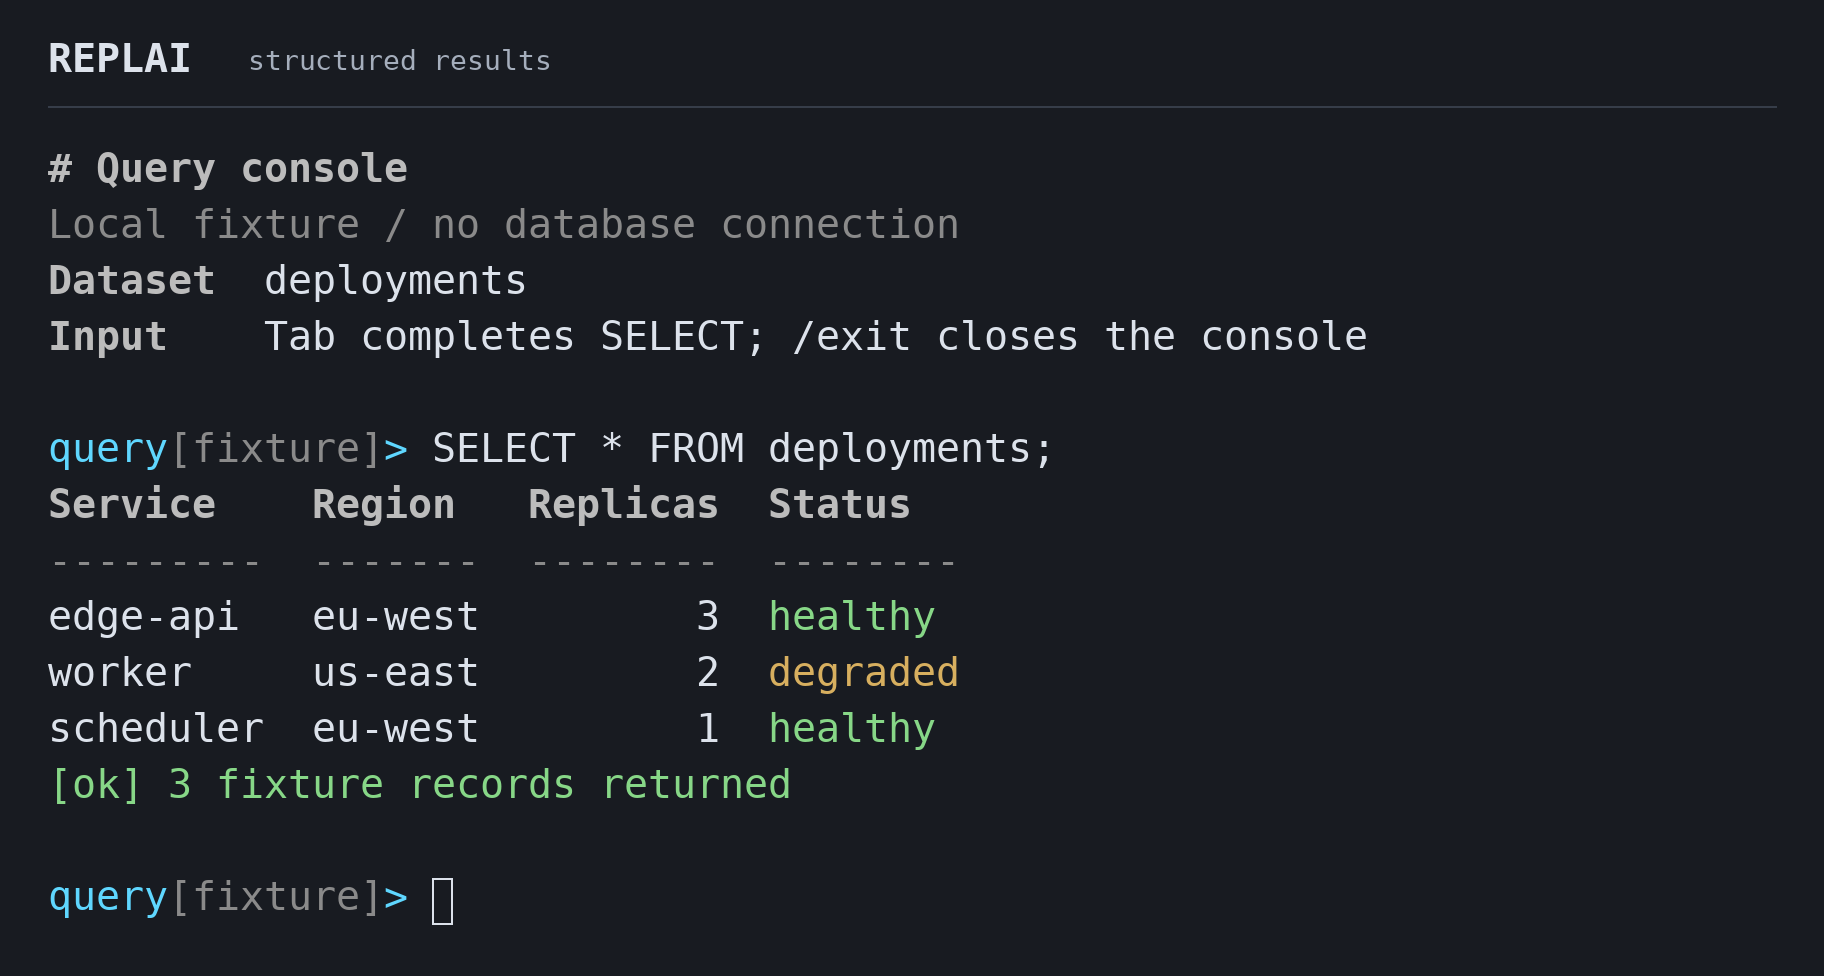
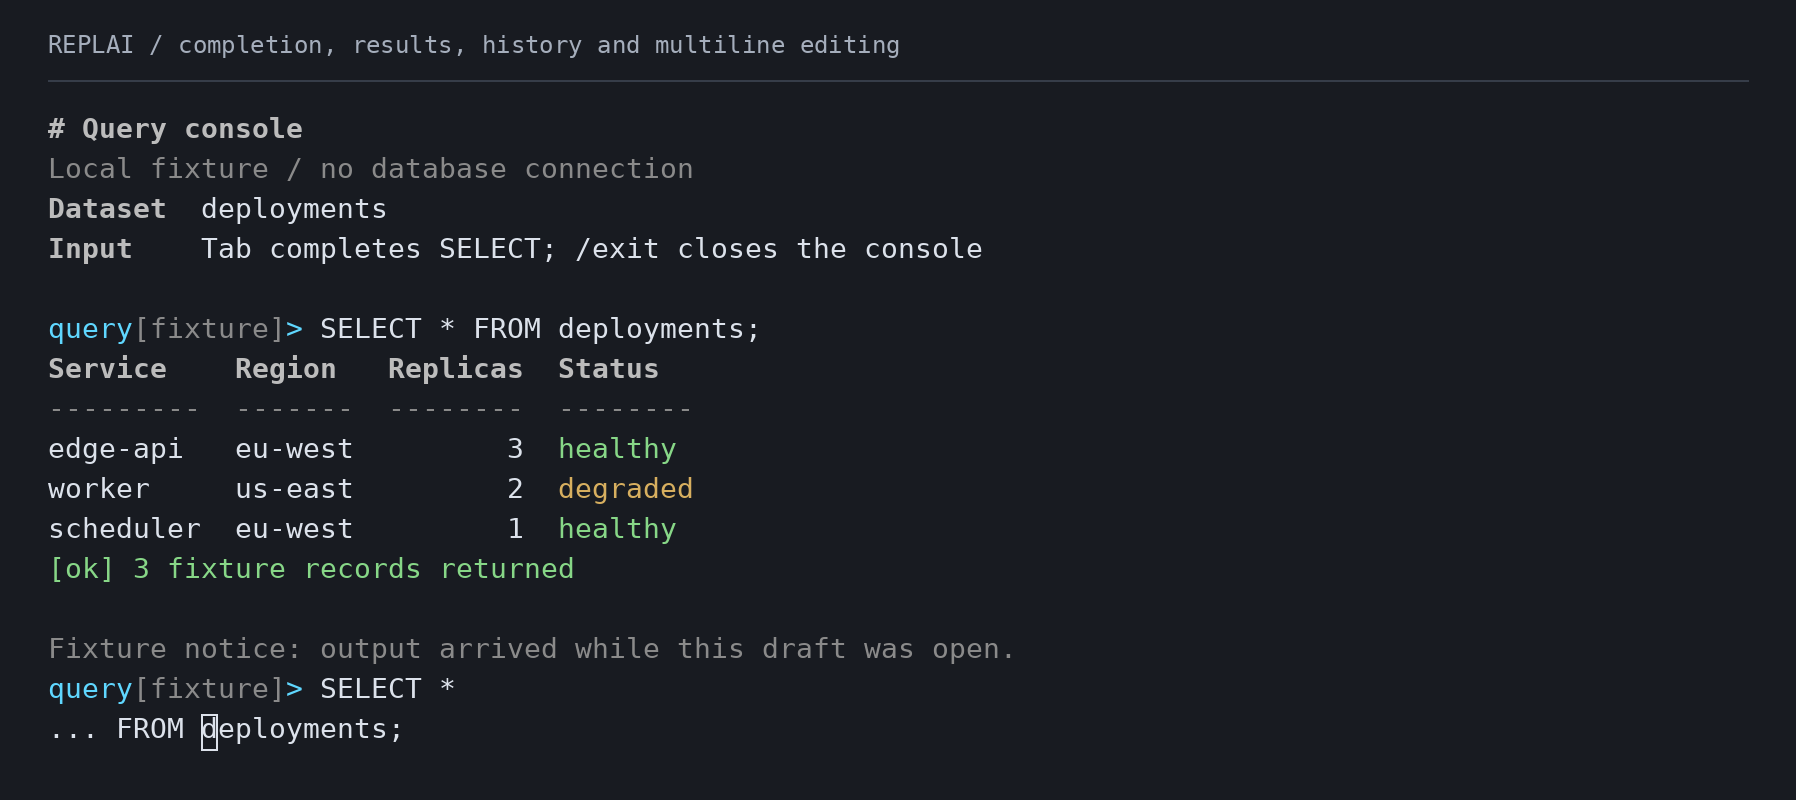
docs: capture denser terminal workflows and layout comparisons

diff --git a/tools/docs/capture_terminal.py b/tools/docs/capture_terminal.py
@@ -1,131 +1,141 @@
 #!/usr/bin/env python3
-"""Rasterize real query-example PTY screens using Pillow 11.3.0 and pyte 0.8.2.
-Optional documentation tooling; no generated application text or library dependency.
+"""Capture real query-host PTYs: Pillow 11.3.0, pyte 0.8.2, DejaVu Sans Mono.
+Optional documentation tooling; all terminal contents come from the executable.
 """
-import os, pty, subprocess, termios, fcntl, struct, select, time
+import copy
+import fcntl
+import os
 from pathlib import Path
+import pty
+import select
+import struct
+import subprocess
+import termios
+import time
+
 import pyte
 from PIL import Image, ImageDraw, ImageFont
 
-root = Path(__file__).resolve().parents[2]
-master, slave = pty.openpty()
-fcntl.ioctl(slave, termios.TIOCSWINSZ, struct.pack("HHHH", 32, 72, 0, 0))
-before = termios.tcgetattr(slave)
-env = {**os.environ, "TERM": "xterm-256color"}
-env.pop("NO_COLOR", None)
-p = subprocess.Popen([str(root / "target/debug/examples/query"), "--notice"],
-    stdin=slave, stdout=slave, stderr=slave, env=env, cwd=root)
-screen = pyte.Screen(72, 32)
-stream = pyte.ByteStream(screen)
-raw = bytearray()
+ROOT = Path(__file__).resolve().parents[2]
 
 
-def drain(seconds):
-    until = time.monotonic() + seconds
-    while time.monotonic() < until:
-        if select.select([master], [], [], max(0, until - time.monotonic()))[0]:
-            data = os.read(master, 65536)
-            raw.extend(data)
-            stream.feed(data)
-
-
-def send(data, seconds=0.15):
-    assert os.write(master, data) == len(data)
-    drain(seconds)
-
-
-def capture(filename, title, show_cursor=True):
-    rows = list(screen.display)
-    last = max(i for i, row in enumerate(rows) if row.strip())
-    rows = rows[:last + 1]
-    fontpath = "/usr/share/fonts/truetype/dejavu/DejaVuSansMono.ttf"
-    boldpath = fontpath.replace(".ttf", "-Bold.ttf")
-    # Render glyphs directly at 2x density; never enlarge an existing bitmap.
-    scale = 2
-    font = ImageFont.truetype(fontpath, 20 * scale)
-    bold = ImageFont.truetype(boldpath, 20 * scale)
-    caption = ImageFont.truetype(fontpath, 14 * scale)
-    cw = 12 * scale
-    ch = 28 * scale
-    pad = 24 * scale
-    top = 72 * scale
-    im = Image.new("RGB", (72 * cw + 2 * pad, top + len(rows) * ch + pad), (24, 27, 33))
-    d = ImageDraw.Draw(im)
-    d.text((pad, 17 * scale), "REPLAI", font=bold, fill="#dce2eb")
-    d.text(
-        (pad + 100 * scale, 22 * scale),
-        title,
-        font=caption,
-        fill="#a5aebc",
-    )
-    d.line((pad, 53 * scale, im.width - pad, 53 * scale), fill="#363d49", width=scale)
-    colors = {
-        "default": "#dce2eb",
-        "black": "#17191e",
-        "red": "#e58b8b",
-        "green": "#99bf95",
-        "brown": "#dfbd80",
-        "blue": "#90b2df",
-        "magenta": "#c5a2d7",
-        "cyan": "#92c7ce",
-        "white": "#e4e8ef",
-        "brightblack": "#8893a4",
-    }
-    for y, row in enumerate(rows):
-        for x in range(72):
-            cell = screen.buffer[y][x]
-            if cell.data.strip():
-                color = colors.get(
-                    cell.fg, "#" + cell.fg if len(cell.fg) == 6 else "#dce2eb"
-                )
-                d.text(
-                    (pad + x * cw, top + y * ch),
-                    cell.data,
-                    font=bold if cell.bold else font,
-                    fill=color,
-                )
-    x, y = screen.cursor.x, screen.cursor.y
-    if show_cursor and y < len(rows):
-        d.rectangle(
-            (
-                pad + x * cw,
-                top + y * ch + 3 * scale,
-                pad + (x + 1) * cw - 2 * scale,
-                top + (y + 1) * ch - 2 * scale,
-            ),
-            outline="#dce2eb",
-            width=scale,
+class Session:
+    def __init__(self, columns, *, plain=False, notice=False):
+        self.master, self.slave = pty.openpty()
+        fcntl.ioctl(self.slave, termios.TIOCSWINSZ, struct.pack("HHHH", 48, columns, 0, 0))
+        self.before = termios.tcgetattr(self.slave)
+        env = {**os.environ, "TERM": "xterm-256color"}
+        env.pop("NO_COLOR", None)
+        if plain:
+            env["NO_COLOR"] = "1"
+        self.process = subprocess.Popen(
+            [str(ROOT / "target/debug/examples/query"), *(["--notice"] if notice else [])],
+            stdin=self.slave, stdout=self.slave, stderr=self.slave, env=env, cwd=ROOT,
         )
-    im.save(root / "assets" / filename, optimize=True)
-    print("\n".join(rows))
-    print(im.size)
+        self.screen = pyte.Screen(columns, 48)
+        self.stream = pyte.ByteStream(self.screen)
+        self.raw = bytearray()
 
-try:
-    drain(0.2)
-    send(b"SEL\t")
-    assert "SELECT * FROM deployments;" in "\n".join(screen.display)
-    send(b"\r")
-    assert "worker" in "\n".join(screen.display)
-    capture("terminal-results.png", "structured results")
-    send(b"\x1b[200~SELECT *\nFROM deployments;\x1b[201~")
-    # Recall history, then return to the exact unfinished multiline draft.
-    send(b"\x1b[A\x1b[B")
-    send(b"\x1b[D" * 12 + b"\x0c")
-    cursor = (screen.cursor.x, screen.cursor.y)
-    drain(2.1)
-    visible = "\n".join(screen.display)
-    assert "Fixture notice:" in visible and "FROM deployments;" in visible
-    # External output adds one row; the same input column must survive.
-    assert screen.cursor.x == cursor[0]
-    capture("terminal-editing.png", "multiline editing + host output")
-    send(b"\x03")
-    send(b"\x04")
-    assert p.wait(timeout=5) == 0
-    assert termios.tcgetattr(slave) == before
-    assert raw.rfind(b"\x1b[?2004l") > raw.rfind(b"\x1b[?2004h")
-finally:
-    if p.poll() is None:
-        p.terminate()
-        p.wait(timeout=5)
-    os.close(master)
-    os.close(slave)
+    def drain(self, seconds=0.2):
+        until = time.monotonic() + seconds
+        while time.monotonic() < until:
+            if select.select([self.master], [], [], max(0, until - time.monotonic()))[0]:
+                data = os.read(self.master, 65536)
+                self.raw.extend(data)
+                self.stream.feed(data)
+
+    def send(self, data):
+        assert os.write(self.master, data) == len(data)
+        self.drain()
+
+    def text(self):
+        return "\n".join(row.rstrip() for row in self.screen.display).rstrip()
+
+    def close(self):
+        try:
+            if self.process.poll() is None:
+                self.send(b"\x03")
+                self.send(b"\x04")
+            assert self.process.wait(timeout=5) == 0
+            assert termios.tcgetattr(self.slave) == self.before
+            assert self.raw.rfind(b"\x1b[?2004l") > self.raw.rfind(b"\x1b[?2004h")
+        finally:
+            if self.process.poll() is None:
+                self.process.terminate()
+                self.process.wait(timeout=5)
+            os.close(self.master)
+            os.close(self.slave)
+
+
+def screen_capture(columns, *, plain=False, editing=False):
+    session = Session(columns, plain=plain, notice=editing)
+    try:
+        session.drain()
+        if not editing:
+            session.send(b"\x0c")  # Actual editor redraw clears introductory output.
+        session.send(b"SEL\t")
+        assert "SELECT*FROMdeployments;" in "".join(session.text().split())
+        session.send(b"\r")
+        assert "scheduler" in session.text() and "degraded" in session.text()
+        if editing:
+            session.send(b"\x1b[200~SELECT *\nFROM deployments;\x1b[201~")
+            # History return and a non-end cursor, preserved through host output.
+            session.send(b"\x1b[A\x1b[B")
+            session.send(b"\x1b[D" * 12)
+            cursor = session.screen.cursor.x
+            session.drain(2.1)
+            assert "Fixture notice:" in session.text()
+            assert "... FROM deployments;" in session.text()
+            assert session.screen.cursor.x == cursor
+        if plain:
+            assert all(cell.fg == "default" and not cell.bold
+                       for row in session.screen.buffer.values() for cell in row.values())
+        print(f"{columns} columns / NO_COLOR={plain}\n{session.text()}\n")
+        return copy.deepcopy(session.screen)
+    finally:
+        session.close()
+
+
+def render(filename, panels):
+    # Direct glyph rasterization at 2x. At README width this is approximately 14px.
+    fontpath = "/usr/share/fonts/truetype/dejavu/DejaVuSansMono.ttf"
+    font = ImageFont.truetype(fontpath, 28)
+    bold = ImageFont.truetype(fontpath.replace(".ttf", "-Bold.ttf"), 28)
+    label = ImageFont.truetype(fontpath, 24)
+    cw, ch, pad, gap, top = 17, 40, 48, 40, 112
+    heights = [max(i for i, row in enumerate(screen.display) if row.strip()) + 1
+               for _, screen in panels]
+    width = sum(screen.columns * cw for _, screen in panels) + 2 * pad + gap * (len(panels) - 1)
+    canvas = Image.new("RGB", (width, top + max(heights) * ch + pad), "#181b21")
+    draw = ImageDraw.Draw(canvas)
+    colors = {"default": "#dce2eb", "black": "#17191e", "red": "#e58b8b",
+              "green": "#99bf95", "brown": "#dfbd80", "blue": "#90b2df",
+              "magenta": "#c5a2d7", "cyan": "#92c7ce", "white": "#e4e8ef",
+              "brightblack": "#8893a4"}
+    left = pad
+    for (title, screen), height in zip(panels, heights):
+        draw.text((left, 30), title, font=label, fill="#a5aebc")
+        draw.line((left, 80, left + screen.columns * cw, 80), fill="#363d49", width=2)
+        for y in range(height):
+            for x in range(screen.columns):
+                cell = screen.buffer[y][x]
+                if cell.data.strip():
+                    color = colors.get(cell.fg, "#" + cell.fg if len(cell.fg) == 6 else "#dce2eb")
+                    draw.text((left + x * cw, top + y * ch), cell.data,
+                              font=bold if cell.bold else font, fill=color)
+        x, y = screen.cursor.x, screen.cursor.y
+        if y < height:
+            draw.rectangle((left + x * cw, top + y * ch + 2,
+                            left + (x + 1) * cw - 1, top + (y + 1) * ch - 2),
+                           outline="#dce2eb", width=2)
+        left += screen.columns * cw + gap
+    canvas.save(ROOT / "assets" / filename, optimize=True)
+    print(filename, canvas.size)
+
+
+if __name__ == "__main__":
+    render("terminal-results.png", [("REPLAI / completion, results, history and multiline editing",
+                                     screen_capture(100, editing=True))])
+    render("terminal-layouts.png", [("42 columns / styled", screen_capture(42)),
+                                     ("42 columns / NO_COLOR", screen_capture(42, plain=True)),
+                                     ("20 cols / stacked", screen_capture(20, plain=True))])

diff --git a/docs/development.md b/docs/development.md
@@ -146,18 +146,25 @@ claiming a Windows terminal backend. Hosted latency is characterization only.
 
 ## README terminal preview
 
-The README uses two real [query-host](../examples/query.rs) screens:
-[structured results](../assets/terminal-results.png) and
-[multiline editing with host output](../assets/terminal-editing.png).
+The README uses real [query-host](../examples/query.rs) sessions:
+[a complete interaction](../assets/terminal-results.png) and
+[styled/plain/narrow layouts](../assets/terminal-layouts.png).
 The example has a fixed query and an in-memory fixture; it connects to no database.
 All terminal contents come from the executable, not authored image text.
 
-The optional [capture script](../tools/docs/capture_terminal.py) drives a 72-column
-Linux PTY with pyte 0.8.2 and Pillow 11.3.0. It exercises completion, submission,
-history return, multiline paste, cursor movement, Ctrl-L and a host notice. It
-checks clean exit, exact termios restoration and paste-mode cleanup. The images
-are rasterized directly at 2× density with DejaVu Sans Mono into 1824-pixel-wide
-PNGs. The dark background and title strip belong to the capture, not REPLAI output.
+The optional [capture script](../tools/docs/capture_terminal.py) drives Linux PTYs
+with pyte 0.8.2 and Pillow 11.3.0. The 100-column session exercises completion,
+submission, history return, multiline paste, a non-end cursor and a host notice.
+The second image places three independently captured screens side by side:
+42 columns styled, 42 columns with NO_COLOR, and 20 columns with NO_COLOR where
+the table becomes stacked records. Ctrl-L clears introductory output in these
+comparison sessions. The capture checks clean exit, exact termios restoration,
+paste cleanup and the absence of styling in plain profiles.
+
+Glyphs are rasterized directly at 2× density with DejaVu Sans Mono. The 28-pixel
+raster font appears at approximately 13–14 px at README width, with 20-pixel
+logical row spacing. The images are 1796 and 1944 pixels wide. The dark background,
+comparison arrangement and title strips belong to the capture, not REPLAI output.
 No existing bitmap is enlarged or altered.
 
 To reproduce with optional capture dependencies in a disposable environment:

diff --git a/README.md b/README.md
@@ -37,7 +37,7 @@ model clients. Your application defines the language and execution model; REPLAI
 provides the interaction layer.
 
 <p align="center">
-  <img src="assets/terminal-results.png" alt="Query-console example: host-defined completion, an aligned results table, semantic status colors and a composed prompt." width="912">
+  <img src="assets/terminal-results.png" alt="Real session: completion, aligned results, history recall and a multiline draft preserved beneath host output." width="912">
 </p>
 
 ## What you get
@@ -112,9 +112,6 @@ installs no signal handlers and owns no background writer or application schedul
 [External-loop example](examples/driven.rs) ·
 [Embedding contract](docs/interaction.md#embedding-tiers-and-wait-ownership)
 
-<p align="center">
-  <img src="assets/terminal-editing.png" alt="A real multiline draft remains editable at its original cursor position after a host notice is printed above it." width="912">
-</p>
 
 ### Rust
 
@@ -190,6 +187,10 @@ sources. The qualification suite checks both linkage modes and C++ inclusion.
 Give terminal output a consistent hierarchy without writing ANSI sequences or
 padding columns in application code. A `Document` describes generic structure;
 REPLAI resolves cell geometry, wrapping, semantic styling and narrow-width layout.
+
+<p align="center">
+  <img src="assets/terminal-layouts.png" alt="The same query results rendered in three real terminals: styled at 42 columns, NO_COLOR at 42 columns, and stacked records at 20 columns." width="912">
+</p>
 
 | Primitive | Presentation contract |
 | --- | --- |
